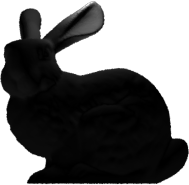
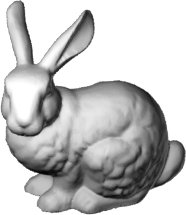
fix phi

diff --git a/renderer_cli/src/main.rs b/renderer_cli/src/main.rs
@@ -190,7 +190,7 @@ fn orthographic_screen_size(aspect_ratio: f32) -> Vector2<f32> {
 /// resulting coordinate system will look at the origin and "up" will be in
 /// roughly the positive y direction.
 fn origin_to_spherical_position(r: f32, theta: Deg<f32>, phi: Deg<f32>) -> Matrix4<f32> {
-    Matrix4::from_angle_z(Rad::from(phi) - Rad(FRAC_PI_2))
+    Matrix4::from_angle_z(Rad(0.0) - Rad(FRAC_PI_2) - Rad::from(phi))
         * Matrix4::from_angle_x(Rad(PI) - Rad::from(theta))
         * Matrix4::from_translation(Vector3::new(0.0, 0.0, -1.0 * r))
 }
